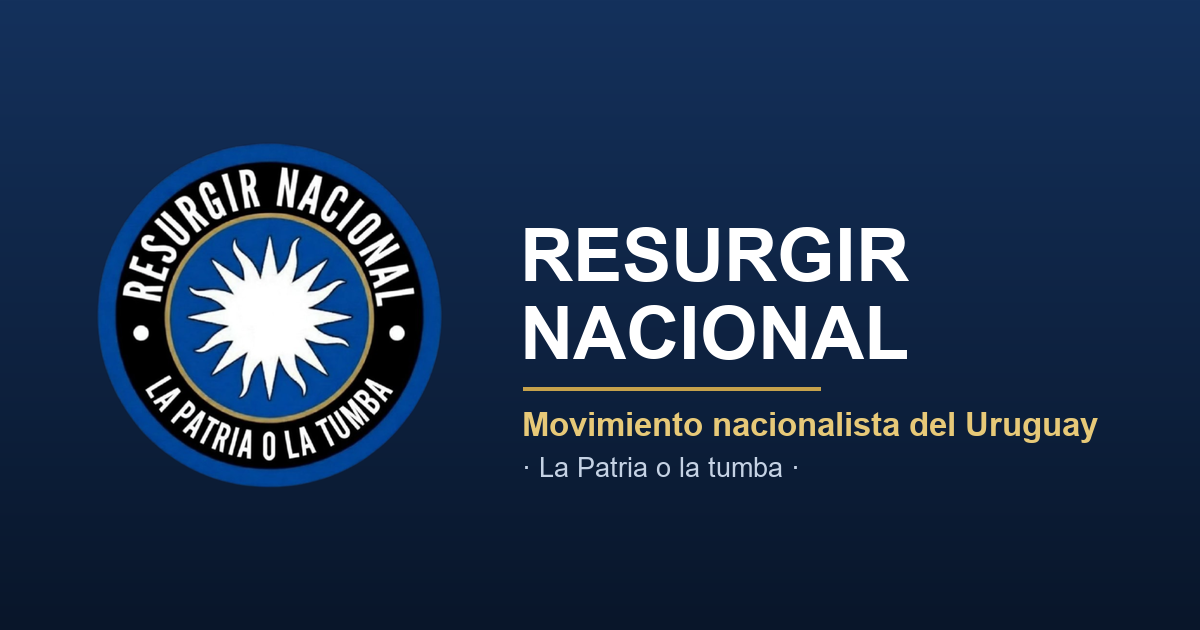
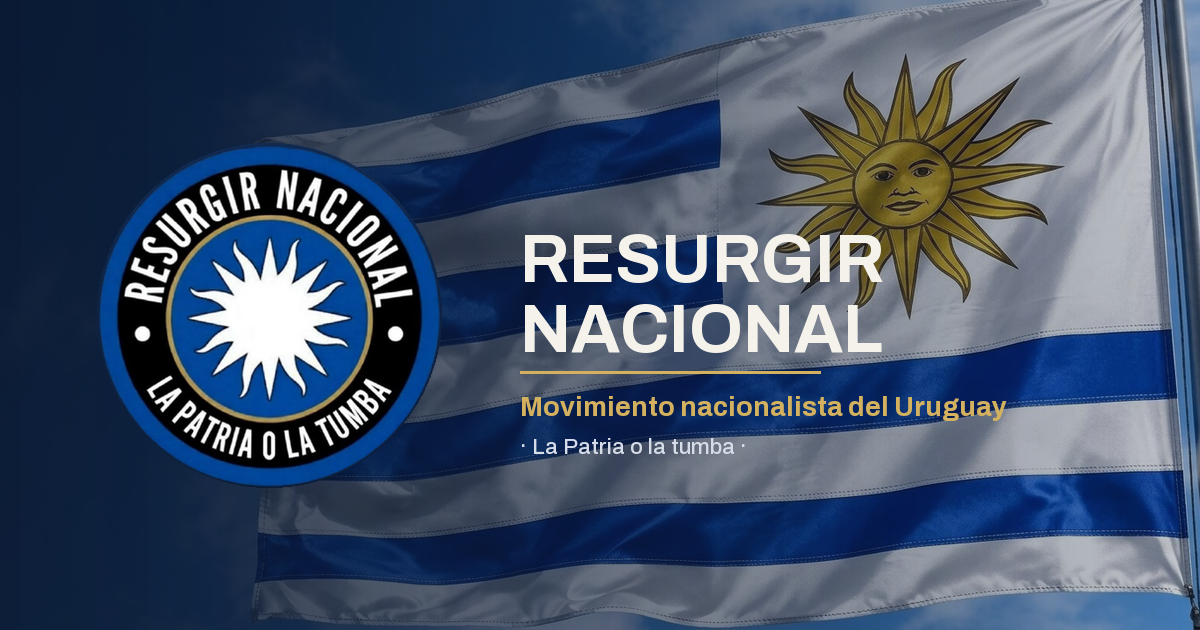
Usar foto realista de la bandera como fondo de la miniatura de portada
Reemplaza el degradado liso de og-image.png (la miniatura que se ve al
compartir el link del sitio) por la foto de la bandera uruguaya ondeando,
con un velo a la izquierda para que el sello y el texto sigan legibles.

scripts/make_home_og.py: script para regenerar og-image.png a mano cuando
haga falta cambiar el fondo o el texto (no es parte del build automático,
a diferencia de og/<slug>.png de Formación y Biblioteca).

diff --git a/scripts/make_home_og.py b/scripts/make_home_og.py
@@ -1,0 +1,63 @@
+#!/usr/bin/env python3
+"""Genera og-image.png (miniatura al compartir la portada del sitio).
+
+A diferencia de og/<slug>.png (uno por articulo/libro, generados en cada
+build), esta es la unica imagen de la portada: se corre a mano cuando se
+quiere cambiar el fondo o el texto. No forma parte de render_articles.py
+ni render_biblioteca.py.
+
+Correr desde la raiz del repo:  python scripts/make_home_og.py
+"""
+import os
+from PIL import Image, ImageDraw, ImageFont
+
+import og_image  # reusa _cover, _left_scrim, _lp, fuentes
+
+ROOT = og_image.ROOT
+FONTS = og_image.FONTS
+BACKGROUND = os.path.join(os.path.dirname(os.path.abspath(__file__)), "assets", "fondo-home.jpg")
+SEAL = os.path.join(os.path.dirname(os.path.abspath(__file__)), "assets", "seal-badge.png")
+OUT = os.path.join(ROOT, "og-image.png")
+
+W, H = 1200, 630
+GOLD = (212, 177, 94)
+WHITE = (244, 242, 234)
+MUTED = (214, 221, 232)
+
+
+def _font(name, size):
+    return ImageFont.truetype(os.path.join(FONTS, name), size)
+
+
+def main():
+    bg = og_image._cover(Image.open(og_image._lp(BACKGROUND)).convert("RGB"), W, H).convert("RGBA")
+    bg.alpha_composite(og_image._left_scrim(W, H, color=(10, 24, 48), start_alpha=225, end_alpha=60))
+
+    seal = Image.open(og_image._lp(SEAL)).convert("RGBA")
+    seal_d = 346
+    seal = seal.resize((seal_d, seal_d), Image.LANCZOS)
+    seal_x, seal_y = 96, (H - seal_d) // 2
+    bg.alpha_composite(seal, (seal_x, seal_y))
+
+    draw = ImageDraw.Draw(bg)
+    text_x = seal_x + seal_d + 78
+
+    title_font = _font("Archivo-Bold.ttf", 68)
+    draw.text((text_x, 222), "RESURGIR", font=title_font, fill=WHITE)
+    draw.text((text_x, 292), "NACIONAL", font=title_font, fill=WHITE)
+
+    line_y = 372
+    draw.line((text_x, line_y, text_x + 300, line_y), fill=GOLD, width=3)
+
+    sub_font = _font("Archivo-Bold.ttf", 27)
+    draw.text((text_x, line_y + 20), "Movimiento nacionalista del Uruguay", font=sub_font, fill=GOLD)
+
+    tag_font = _font("Archivo-Medium.ttf", 22)
+    draw.text((text_x, line_y + 62), "· La Patria o la tumba ·", font=tag_font, fill=MUTED)
+
+    bg.convert("RGB").save(og_image._lp(OUT), "PNG", optimize=True)
+    print("escrito:", OUT)
+
+
+if __name__ == "__main__":
+    main()
